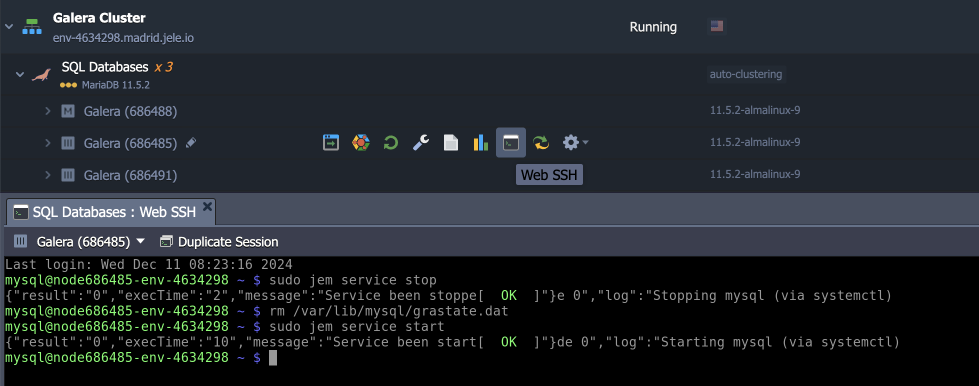
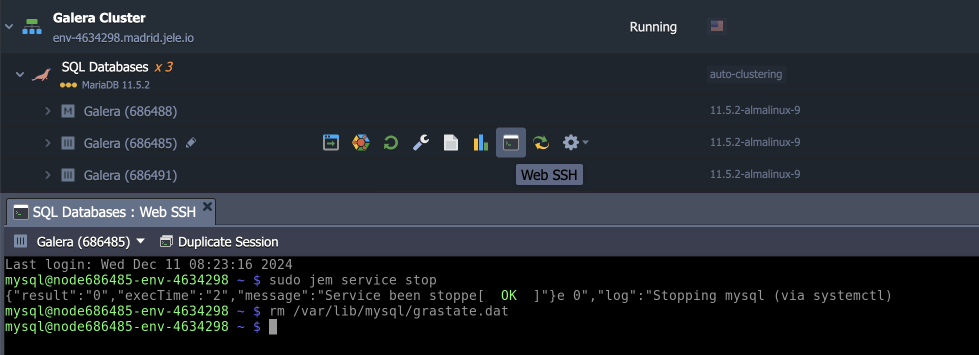
manual Galera restoration guide edits

diff --git a/docs/ManualRestoreFromDump.md b/docs/ManualRestoreFromDump.md
@@ -28,19 +28,18 @@ Follow the steps below to restore your Galera cluster from a database dump and e
 
 ![FTP add-on](/images/manual-galera-restoration/03-ftp-addon.png)
 
-2\. Stop services on all non-master nodes. Connect to the required node [via SSH](https://www.virtuozzo.com/application-platform-docs/ssh-access-overview/) and execute the following command to stop the MariaDB service:
+2\. Perform the following operations on **all non-master nodes**:
+
+- Connect to the required node [via SSH](https://www.virtuozzo.com/application-platform-docs/ssh-access-overview/).
+- Stop the MariaDB service.
+- Delete the ***/var/lib/mysql/grastate.dat*** Galera state file. It will initiate a full state transfer (SST) upon service restart.
 
 ```
 sudo jem service stop
-```
-
-3\. Delete the ***/var/lib/mysql/grastate.dat*** Galera state file. It will initiate a full state transfer (SST) upon service restart.
-
-```
 rm /var/lib/mysql/grastate.dat
 ```
 
-4\. Repeat *steps 2-3* for all non-master nodes.
+![alt text](04-web-ssh-access.png)
 
 ![Web SSH access](/images/manual-galera-restoration/04-web-ssh-access.png)
 
